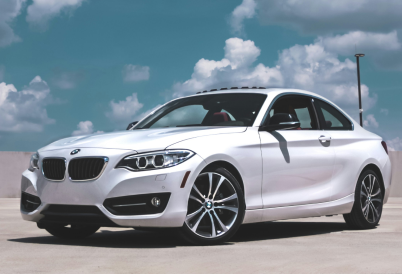
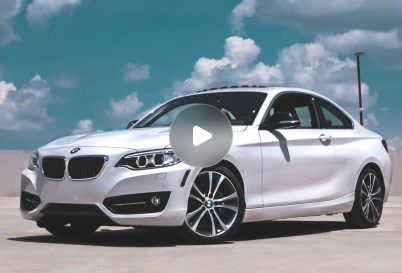
gotovo5

diff --git a/index.html b/index.html
@@ -68,7 +68,7 @@
                 <h3>Купимо та доставимо авто <br> з США <span style="color: #E62626">під ключ</span></h3>
             </div>
             <div class="cover_button cover_button_1">
-                <a href="#">Замовити машину з Америки</a>
+                <a href="#button">Замовити машину з Америки</a>
             </div>
         </div>
         <div class="mt-4">
@@ -117,7 +117,7 @@
                 <h3>Зв’яжіться з нами, щоб отримати персональний підбір машини</h3>
             </div>
             <div class="element_2 col-lg-4 col-sm-12 item--text d-flex">
-                <a href="#">Отримати підбір авто</a>
+                <a href="#button">Отримати підбір авто</a>
             </div>
         </div>
     </div>
@@ -143,23 +143,23 @@
                 <div class="carousel-item active">
                     <div class="row">
                         <div class="col-lg-4 col-md-4 col-sm-12 ">
-                            <a href="#">
+                            <button data-bs-toggle="modal" data-bs-target="#exampleModal">
                                 <img src="assets/img/car1.png" class="d-block w-100" alt="...">
-                            </a>
+                            </button>
                             <h5>BMW S4862, <span style="color: #16161699">2021</span></h5>
                             <p>Придбали з США за <span style="font-weight: 600">$2000</span></p>
                         </div>
                         <div class="col-lg-4 col-md-4 col-sm-12 ">
-                            <a href="#">
+                            <button data-bs-toggle="modal" data-bs-target="#exampleModal2">
                                 <img src="assets/img/car2.png" class="d-block w-100" alt="...">
-                            </a>
+                            </button>
                             <h5>BMW S4862, <span style="color: #16161699">2021</span></h5>
                             <p>Придбали з США за <span style="font-weight: 600">$2000</span></p>
                         </div>
                         <div class="col-lg-4 col-md-4 col-sm-12 ">
-                            <a href="#">
+                            <button data-bs-toggle="modal" data-bs-target="#exampleModal3">
                                 <img src="assets/img/car3.png" class="d-block w-100" alt="...">
-                            </a>
+                            </button>
                             <h5>BMW S4862, <span style="color: #16161699">2021</span></h5>
                             <p>Придбали з США за <span style="font-weight: 600">$2000</span></p>
                         </div>
@@ -168,23 +168,23 @@
                 <div class="carousel-item">
                     <div class="row">
                         <div class="col-lg-4 col-md-4 col-sm-12 ">
-                            <a href="#">
+                            <button data-bs-toggle="modal" data-bs-target="#exampleModal4">
                                 <img src="assets/img/car1.png" class="d-block w-100" alt="...">
-                            </a>
+                            </button>
                             <h5>BMW S4862, <span style="color: #16161699">2021</span></h5>
                             <p>Придбали з США за <span style="font-weight: 600">$2000</span></p>
                         </div>
                         <div class="col-lg-4 col-md-4 col-sm-12 ">
-                            <a href="#">
+                            <button data-bs-toggle="modal" data-bs-target="#exampleModal5">
                                 <img src="assets/img/car2.png" class="d-block w-100" alt="...">
-                            </a>
+                            </button>
                             <h5>BMW S4862, <span style="color: #16161699">2021</span></h5>
                             <p>Придбали з США за <span style="font-weight: 600">$2000</span></p>
                         </div>
                         <div class="col-lg-4 col-md-4 col-sm-12 ">
-                            <a href="#">
+                            <button data-bs-toggle="modal" data-bs-target="#exampleModal6">
                                 <img src="assets/img/car3.png" class="d-block w-100" alt="...">
-                            </a>
+                            </button>
                             <h5>BMW S4862, <span style="color: #16161699">2021</span></h5>
                             <p>Придбали з США за <span style="font-weight: 600">$2000</span></p>
                         </div>
@@ -263,7 +263,7 @@
                         <p>Розмитнене авто з-за кордону передається нашим спеціалістам, які ремонтують та відновляюють вашу машину на нашому автосервісі</p>
                     </div>
                     <div class="hangar_button d-flex">
-                        <a href="#">Зв’язатись з нами</a>
+                        <a href="#button">Зв’язатись з нами</a>
                     </div>
                 </div>
 
@@ -349,7 +349,7 @@
                     <p>Ім’я</p>
                     <div class="col-lg-6 w-100 h-100">
                         <div class="form-group">
-                            <input type="text" placeholder="Ім’я" class="form-control" required>
+                            <input type="text" placeholder="Ім’я" class="form-control" id="button" required>
                         </div>
                     </div>
                 </div>
@@ -435,6 +435,78 @@
         </div>
     </nav>
 </footer>
+<!-- Modal -->
+<div class="modal fade" id="exampleModal" tabindex="-1" aria-labelledby="exampleModalLabel" aria-hidden="true">
+    <div class="modal-dialog">
+        <div class="modal-content">
+            <div class="modal-body">
+                <div class='embed-container'>
+                    <iframe src='https://www.youtube.com/embed/0tOXxuLcaog' frameborder='0' allowfullscreen></iframe>
+                </div>
+            </div>
+        </div>
+    </div>
+</div>
+
+<div class="modal fade" id="exampleModal2" tabindex="-1" aria-labelledby="exampleModalLabel" aria-hidden="true">
+    <div class="modal-dialog">
+        <div class="modal-content">
+            <div class="modal-body">
+                <div class='embed-container'>
+                    <iframe src='https://www.youtube.com/embed/26SYzuvYUhY' frameborder='0' allowfullscreen></iframe>
+                </div>
+            </div>
+        </div>
+    </div>
+</div>
+
+<div class="modal fade" id="exampleModal3" tabindex="-1" aria-labelledby="exampleModalLabel" aria-hidden="true">
+    <div class="modal-dialog">
+        <div class="modal-content">
+            <div class="modal-body">
+                <div class='embed-container'>
+                    <iframe src='https://www.youtube.com/embed/9_XlYyHbvuc' frameborder='0' allowfullscreen></iframe>
+                </div>
+            </div>
+        </div>
+    </div>
+</div>
+
+<div class="modal fade" id="exampleModal4" tabindex="-1" aria-labelledby="exampleModalLabel" aria-hidden="true">
+    <div class="modal-dialog">
+        <div class="modal-content">
+            <div class="modal-body">
+                <div class='embed-container'>
+                    <iframe src='https://www.youtube.com/embed/0tOXxuLcaog' frameborder='0' allowfullscreen></iframe>
+                </div>
+            </div>
+        </div>
+    </div>
+</div>
+
+<div class="modal fade" id="exampleModal5" tabindex="-1" aria-labelledby="exampleModalLabel" aria-hidden="true">
+    <div class="modal-dialog">
+        <div class="modal-content">
+            <div class="modal-body">
+                <div class='embed-container'>
+                    <iframe src='https://www.youtube.com/embed/0tOXxuLcaog' frameborder='0' allowfullscreen></iframe>
+                </div>
+            </div>
+        </div>
+    </div>
+</div>
+
+<div class="modal fade" id="exampleModal6" tabindex="-1" aria-labelledby="exampleModalLabel" aria-hidden="true">
+    <div class="modal-dialog">
+        <div class="modal-content">
+            <div class="modal-body">
+                <div class='embed-container'>
+                    <iframe src='https://www.youtube.com/embed/0tOXxuLcaog' frameborder='0' allowfullscreen></iframe>
+                </div>
+            </div>
+        </div>
+    </div>
+</div>
 
 <script src="js/bootstrap.bundle.min.js"></script>
 </body>

diff --git a/assets/style.css b/assets/style.css
@@ -11,6 +11,28 @@ body{
     -webkit-tap-highlight-color: transparent;
 }
 
+.embed-container{
+    position: relative;
+    padding-bottom: 56.25%;
+    height: 0; overflow: hidden;
+    max-width: 100%;
+}
+
+.embed-container iframe, .embed-container object, .embed-container embed{
+    position: absolute;
+    top: 0; left: 0;
+    width: 100%;
+    height: 100%;
+}
+
+button{
+    display: block;
+    margin-left: auto;
+    margin-right: auto;
+    border: 0;
+    padding: 0;
+}
+
 *,
 *:before,
 *:after {
@@ -542,6 +564,11 @@ p{
     color: #FFFFFF;
 }
 
+.contact_item input:focus{
+    color: #FFFFFF;
+
+}
+
 .map{
     width: 100%;
     display: flex;
@@ -1028,6 +1055,16 @@ p{
     .footer_padding{
         padding-left: 0;
         margin-left: auto;
+    }
+}
+
+@media (max-width: 767px) {
+    .carousel-inner p{
+        text-align: center;
+    }
+
+    .carousel-inner h5{
+        text-align: center;
     }
 }
 
